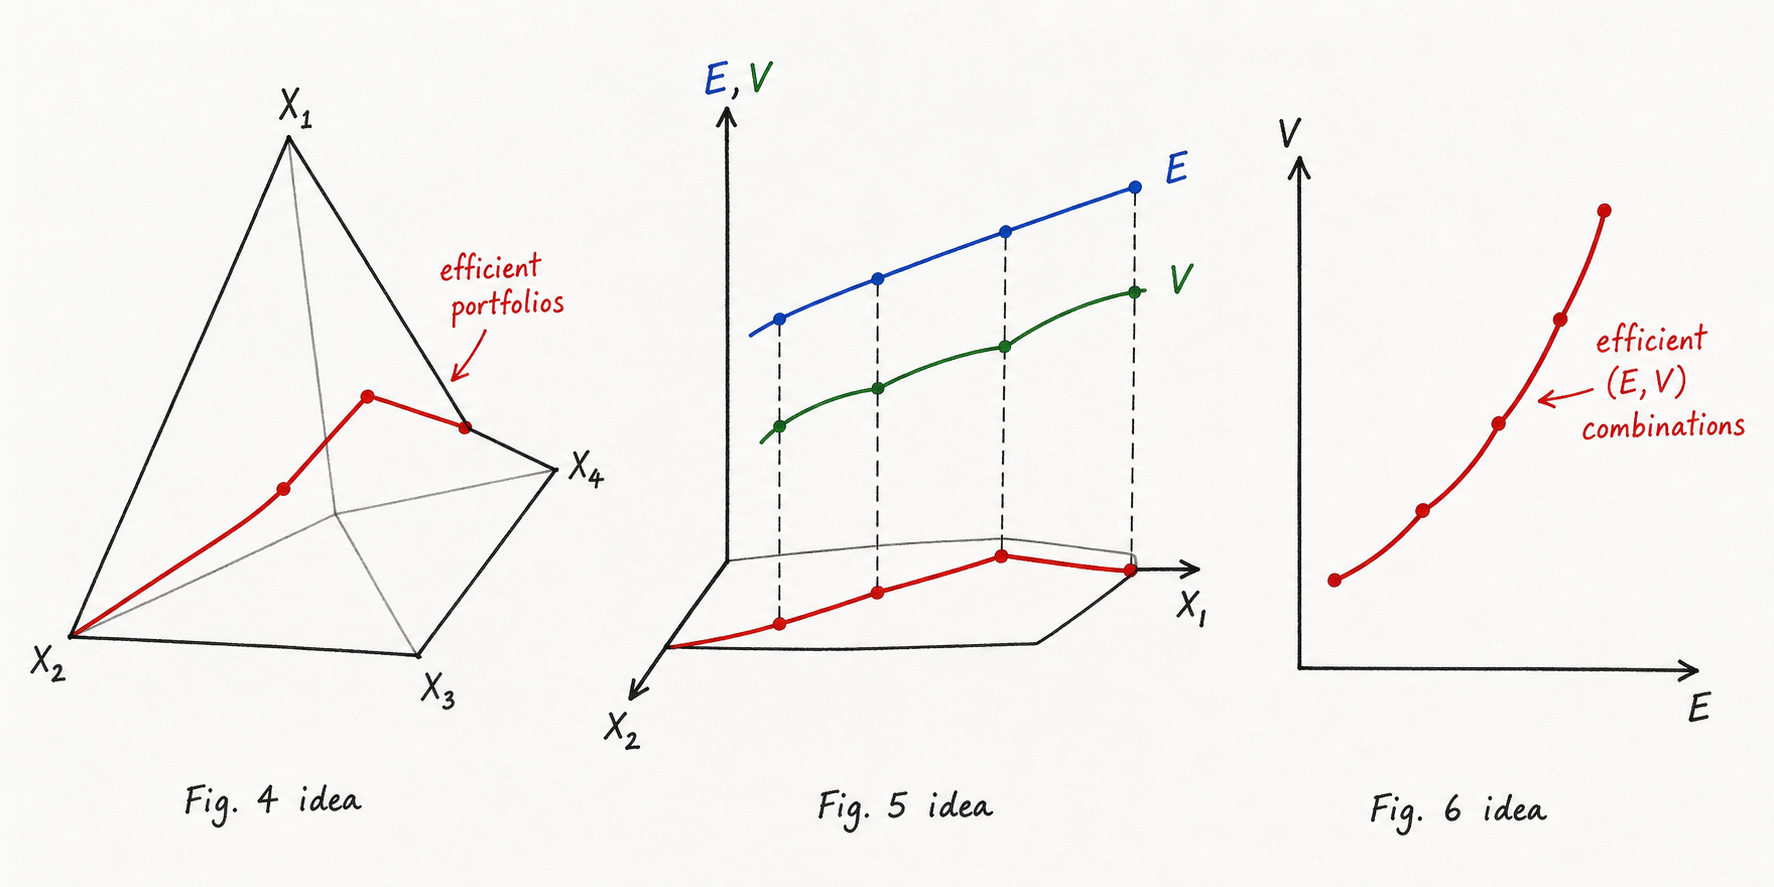
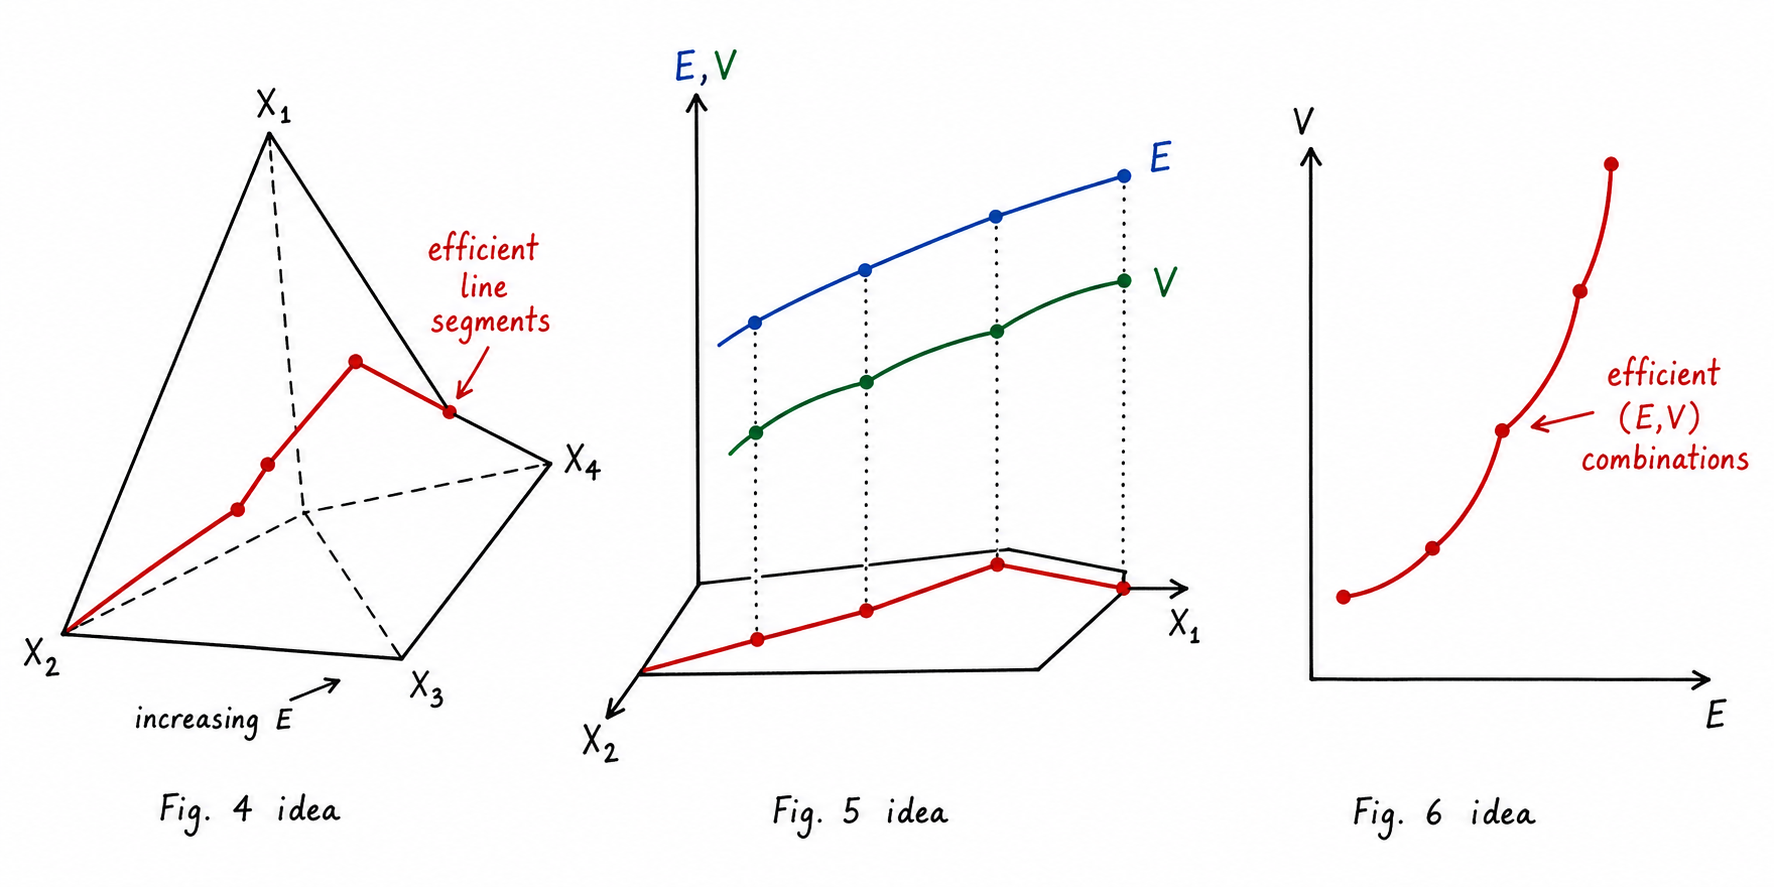
Reorder Markowitz widget and redraw N-security figures
- _posts/2026-05-02-markowitz-portfolio-selection.md: move the interactive reconstruction block ahead of the N-security section so readers can experiment with the five three-security cases before the general proof.
- _posts/2026-05-02-markowitz-portfolio-selection.md: shorten the N-security introduction around the "similar thoughts apply" transition and remove extra geometry description before the active-set proof.
- _posts/2026-05-02-markowitz-portfolio-selection.md: rename and tighten the final portfolio-mixing section so it emphasizes convexity of the quadratic variance surface.
- assets/blog/markowitz/markowitz-n-security-line-segments.png: replace the prior sketch with a cleaner hand-plot-style redraw using a straight-edged tetrahedron, straight Fig. 5 axes, and a more strongly curved E-V parabola.
- assets/blog/markowitz/markowitz-portfolio-mix-convexity.png: replace the prior Figure 7-inspired sketch so the isovariance label arrows point directly to the ellipses and the captioned idea is convexity moving the mix inward.

diff --git a/_posts/2026-05-02-markowitz-portfolio-selection.md b/_posts/2026-05-02-markowitz-portfolio-selection.md
@@ -865,134 +865,6 @@ The direction points even farther toward security 1 and away from security 2. Wi
 
 ![Exercise case where only one portfolio is efficient](/assets/blog/markowitz/markowitz-case3-single-efficient-portfolio.png)
 
-## What about $N$ securities?
-
-The five drawings above are all three-security pictures. That made me wonder whether the triangle was doing too much work. Maybe the result is only visually nice because three weights can be reduced to two coordinates.
-
-Markowitz's answer is no. In the four-security case the feasible set becomes a tetrahedron, and in the $N$-security case it becomes a higher-dimensional simplex. The picture is harder to draw, but the structure is the same: in portfolio-weight space, efficient portfolios are connected line segments.
-
-The sketch below is my redraw of the idea behind Markowitz's Figures 4, 5, and 6. The first panel is the four-security version: efficient portfolios move along straight pieces in the tetrahedron. The second panel shows what happens when those same portfolio weights are lifted into the $E$ and $V$ views. The third panel shows the resulting efficient combinations in the $(E,V)$ plane. The line segments in weight space become curved pieces in the $(E,V)$ plane because variance is quadratic.
-
-![Handwritten sketches of Markowitz's N-security line-segment idea and the induced E-V curve](/assets/blog/markowitz/markowitz-n-security-line-segments.png)
-
-*AI-generated hand-plot-style sketch, inspired by the ideas in Markowitz's Figures 4-6. It is a simplified explanatory redraw, not a reproduction from the paper.*
-
-Here is the proof in the notation I find easiest to remember. Suppose there are $N$ securities. A long-only portfolio is a vector $x\in\mathbb{R}^N$ satisfying
-
-$$
-\mathbf{1}^\top x=1,\qquad x_i\ge 0.
-$$
-
-The expected return and variance are
-
-$$
-E(x)=\mu^\top x,\qquad V(x)=x^\top\Sigma x,
-$$
-
-where $\mu$ is the vector of expected returns and $\Sigma$ is the covariance matrix. To trace the efficient set, fix a target return $e$ and ask for the minimum-variance portfolio that reaches that return:
-
-$$
-\min_x\; x^\top\Sigma x
-$$
-
-subject to
-
-$$
-\mathbf{1}^\top x=1,\qquad \mu^\top x=e,\qquad x_i\ge 0.
-$$
-
-The only annoying part is the inequality $x_i\ge 0$. Markowitz's geometric trick is to handle it face by face. Fix an active set $A$, meaning the securities whose weights are currently positive. On that face of the simplex, the inactive securities have weight zero and the active weights satisfy
-
-$$
-\mathbf{1}_A^\top x_A=1,\qquad x_i>0\quad(i\in A).
-$$
-
-For the moment, stay inside this face and ignore the possibility that a weight might hit zero. The first-order condition for the equality-constrained minimum has the form
-
-$$
-2\Sigma_{AA}x_A=\alpha \mathbf{1}_A+\beta\mu_A,
-$$
-
-where $\alpha$ and $\beta$ are the multipliers for the budget constraint and the target-return constraint. If $\Sigma_{AA}$ is nonsingular, then
-
-$$
-x_A=\frac{1}{2}\Sigma_{AA}^{-1}(\alpha\mathbf{1}_A+\beta\mu_A).
-$$
-
-The two numbers $\alpha$ and $\beta$ are chosen so that
-
-$$
-\mathbf{1}_A^\top x_A=1,\qquad \mu_A^\top x_A=e.
-$$
-
-These are two linear equations whose right-hand side is $(1,e)$. Therefore $\alpha$ and $\beta$ change linearly with $e$, and so $x_A$ also changes linearly with $e$. In other words, while the active set stays fixed,
-
-$$
-x_A(e)=a_A+e\,b_A
-$$
-
-for two fixed vectors $a_A$ and $b_A$. That is the line-segment result.
-
-The segment does not continue forever. It is valid only while all active weights remain positive:
-
-$$
-x_i(e)>0,\qquad i\in A.
-$$
-
-When one active weight reaches zero, the path hits a boundary face. Then that security drops out, the active set changes, and the same argument starts again on the smaller face. This is why the efficient portfolios form a chain:
-
-$$
-\text{line segment}\;\to\;\text{line segment}\;\to\;\text{line segment}\;\to\cdots
-$$
-
-This also explains the difference between weight space and the $(E,V)$ plane. Along one segment, $x(e)=a+e b$. Expected return is already $e$, but variance becomes
-
-$$
-V(e)
-=(a+eb)^\top\Sigma(a+eb)
-=a^\top\Sigma a+2e\,b^\top\Sigma a+e^2 b^\top\Sigma b.
-$$
-
-So the same straight segment in portfolio-weight space becomes a parabola segment when plotted as variance against expected return. That small point helped me reconcile Markowitz's language: efficient portfolios are line segments, while efficient $(E,V)$ combinations are connected parabola pieces.
-
-## Why mixing two portfolios can lower variance
-
-Markowitz makes one more geometric point after this, and I think it deserves its own short note. If two portfolios have the same variance, then mixing them usually gives a portfolio with lower variance. This is the idea behind his Figure 7.
-
-![Handwritten sketch of mixing two equal-variance portfolios to move inside a smaller variance ellipse](/assets/blog/markowitz/markowitz-portfolio-mix-convexity.png)
-
-*AI-generated hand-plot-style sketch, inspired by the idea in Markowitz's Figure 7. The point $P$ is a mixture of $P'$ and $P''$, and it falls inside a smaller isovariance curve.*
-
-The algebra is only one line. Let $p$ and $q$ be two portfolios with the same variance,
-
-$$
-V(p)=V(q)=v.
-$$
-
-For $0\le\lambda\le 1$, form the mixed portfolio
-
-$$
-m_\lambda=\lambda p+(1-\lambda)q.
-$$
-
-Because $V(x)=x^\top\Sigma x$ is a convex quadratic form,
-
-$$
-V(m_\lambda)
-=\lambda V(p)+(1-\lambda)V(q)
--\lambda(1-\lambda)(p-q)^\top\Sigma(p-q).
-$$
-
-Substituting $V(p)=V(q)=v$ gives
-
-$$
-V(m_\lambda)
-=v-\lambda(1-\lambda)(p-q)^\top\Sigma(p-q)
-\le v.
-$$
-
-So the mixed portfolio cannot have higher variance than the two endpoints. It is usually strictly lower; equality happens only in a degenerate case where the difference $p-q$ carries no variance under $\Sigma$. Geometrically, that is why the line between two points on the same isovariance ellipse cuts inward through smaller ellipses.
-
 ## Interactive reconstruction
 
 Use the preset menu to recreate the five notebook plots. Then edit $R$ or the symmetric matrix $\Sigma$ directly.
@@ -1521,6 +1393,130 @@ A good way to use the widget:
     draw();
   }());
 </script>
+
+## What about $N$ securities?
+
+In fact, similar thoughts apply to the $N$-security case. The three-security triangle is only the easiest version to draw. With four securities, the feasible set becomes a tetrahedron. With $N$ securities, it becomes a higher-dimensional simplex. The core result is the same: efficient portfolios are connected line segments in portfolio-weight space.
+
+![Handwritten sketches of Markowitz's N-security line-segment idea and the induced E-V curve](/assets/blog/markowitz/markowitz-n-security-line-segments.png)
+
+*AI-generated hand-plot-style sketch, inspired by the ideas in Markowitz's Figures 4-6. It is a simplified explanatory redraw, not a reproduction from the paper.*
+
+Here is the proof in the notation I find easiest to remember. Suppose there are $N$ securities. A long-only portfolio is a vector $x\in\mathbb{R}^N$ satisfying
+
+$$
+\mathbf{1}^\top x=1,\qquad x_i\ge 0.
+$$
+
+The expected return and variance are
+
+$$
+E(x)=\mu^\top x,\qquad V(x)=x^\top\Sigma x,
+$$
+
+where $\mu$ is the vector of expected returns and $\Sigma$ is the covariance matrix. To trace the efficient set, fix a target return $e$ and ask for the minimum-variance portfolio that reaches that return:
+
+$$
+\min_x\; x^\top\Sigma x
+$$
+
+subject to
+
+$$
+\mathbf{1}^\top x=1,\qquad \mu^\top x=e,\qquad x_i\ge 0.
+$$
+
+The inequality $x_i\ge 0$ is handled face by face. Fix an active set $A$, meaning the securities whose weights are currently positive. On that face of the simplex, the inactive securities have weight zero and the active weights satisfy
+
+$$
+\mathbf{1}_A^\top x_A=1,\qquad x_i>0\quad(i\in A).
+$$
+
+While the active set stays fixed, the first-order condition for the equality-constrained minimum has the form
+
+$$
+2\Sigma_{AA}x_A=\alpha \mathbf{1}_A+\beta\mu_A,
+$$
+
+where $\alpha$ and $\beta$ are the multipliers for the budget constraint and the target-return constraint. If $\Sigma_{AA}$ is nonsingular, then
+
+$$
+x_A=\frac{1}{2}\Sigma_{AA}^{-1}(\alpha\mathbf{1}_A+\beta\mu_A).
+$$
+
+The two numbers $\alpha$ and $\beta$ are chosen so that
+
+$$
+\mathbf{1}_A^\top x_A=1,\qquad \mu_A^\top x_A=e.
+$$
+
+These are two linear equations whose right-hand side is $(1,e)$. Therefore $\alpha$ and $\beta$ change linearly with $e$, and so $x_A$ also changes linearly with $e$. In other words, while the active set stays fixed,
+
+$$
+x_A(e)=a_A+e\,b_A
+$$
+
+for two fixed vectors $a_A$ and $b_A$. That is the line-segment result.
+
+The segment is valid only while all active weights remain positive:
+
+$$
+x_i(e)>0,\qquad i\in A.
+$$
+
+When one active weight reaches zero, the path hits a boundary face. Then that security drops out, the active set changes, and the same argument starts again on the smaller face. This is why the efficient portfolios form a chain:
+
+$$
+\text{line segment}\;\to\;\text{line segment}\;\to\;\text{line segment}\;\to\cdots
+$$
+
+There is one last translation step. Along one segment, $x(e)=a+e b$. Expected return is already $e$, but variance becomes
+
+$$
+V(e)
+=(a+eb)^\top\Sigma(a+eb)
+=a^\top\Sigma a+2e\,b^\top\Sigma a+e^2 b^\top\Sigma b.
+$$
+
+So a straight segment in portfolio-weight space becomes a parabola segment when plotted as variance against expected return. That is why Markowitz can say efficient portfolios are line segments, while efficient $(E,V)$ combinations are connected parabola pieces.
+
+## Convexity and mixing portfolios
+
+Markowitz's Figure 7 is really a convexity picture. If two portfolios have the same variance, then the straight-line mixture between them cannot move outward to a larger variance ellipse. It moves inward, or in a degenerate case stays on the same ellipse.
+
+![Handwritten sketch of mixing two equal-variance portfolios to move inside a smaller variance ellipse](/assets/blog/markowitz/markowitz-portfolio-mix-convexity.png)
+
+*AI-generated hand-plot-style sketch, inspired by the idea in Markowitz's Figure 7. The point $P$ is a mixture of $P'$ and $P''$, and it falls inside a smaller isovariance curve.*
+
+Let $p$ and $q$ be two portfolios with the same variance,
+
+$$
+V(p)=V(q)=v.
+$$
+
+For $0\le\lambda\le 1$, form the mixed portfolio
+
+$$
+m_\lambda=\lambda p+(1-\lambda)q.
+$$
+
+Because $V(x)=x^\top\Sigma x$ is a convex quadratic form,
+
+$$
+V(m_\lambda)
+=\lambda V(p)+(1-\lambda)V(q)
+-\lambda(1-\lambda)(p-q)^\top\Sigma(p-q).
+$$
+
+Substituting $V(p)=V(q)=v$ gives
+
+$$
+V(m_\lambda)
+=v-\lambda(1-\lambda)(p-q)^\top\Sigma(p-q)
+\le v.
+$$
+
+That is the whole point. The lower variance is not a separate finance trick; it is the nature of convexity for the quadratic variance surface.
 
 ## Takeaway
 
